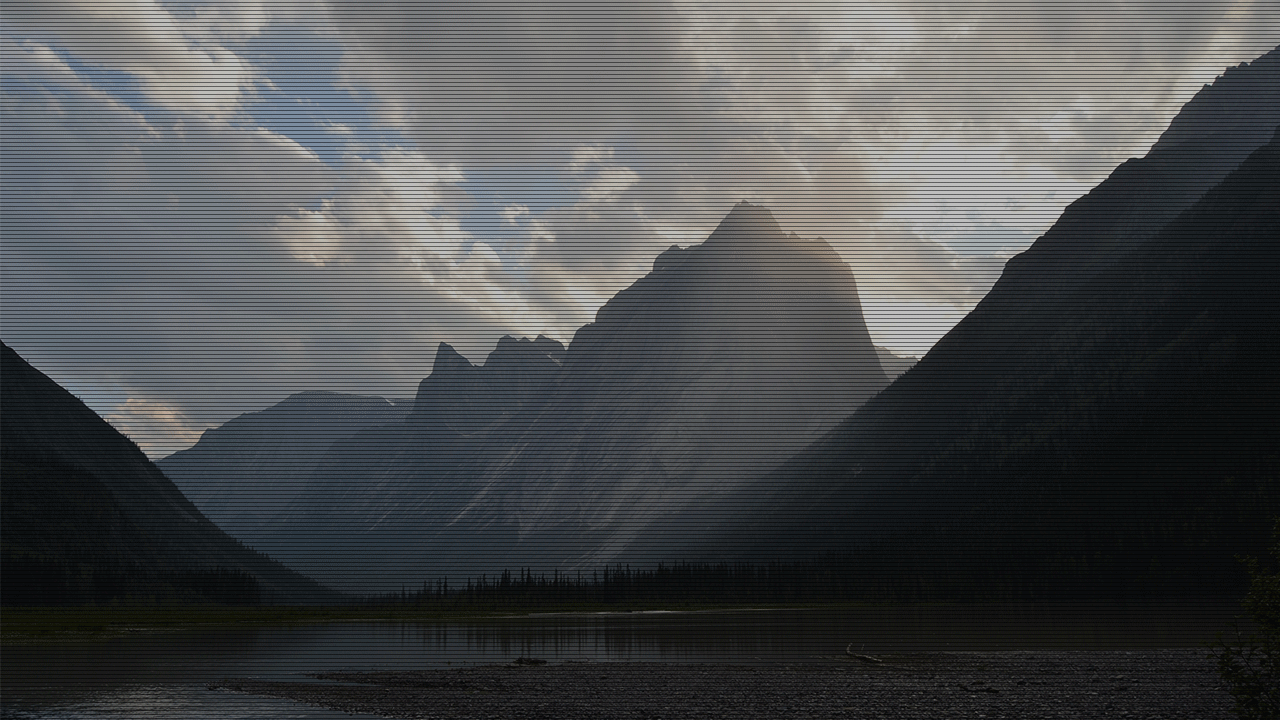
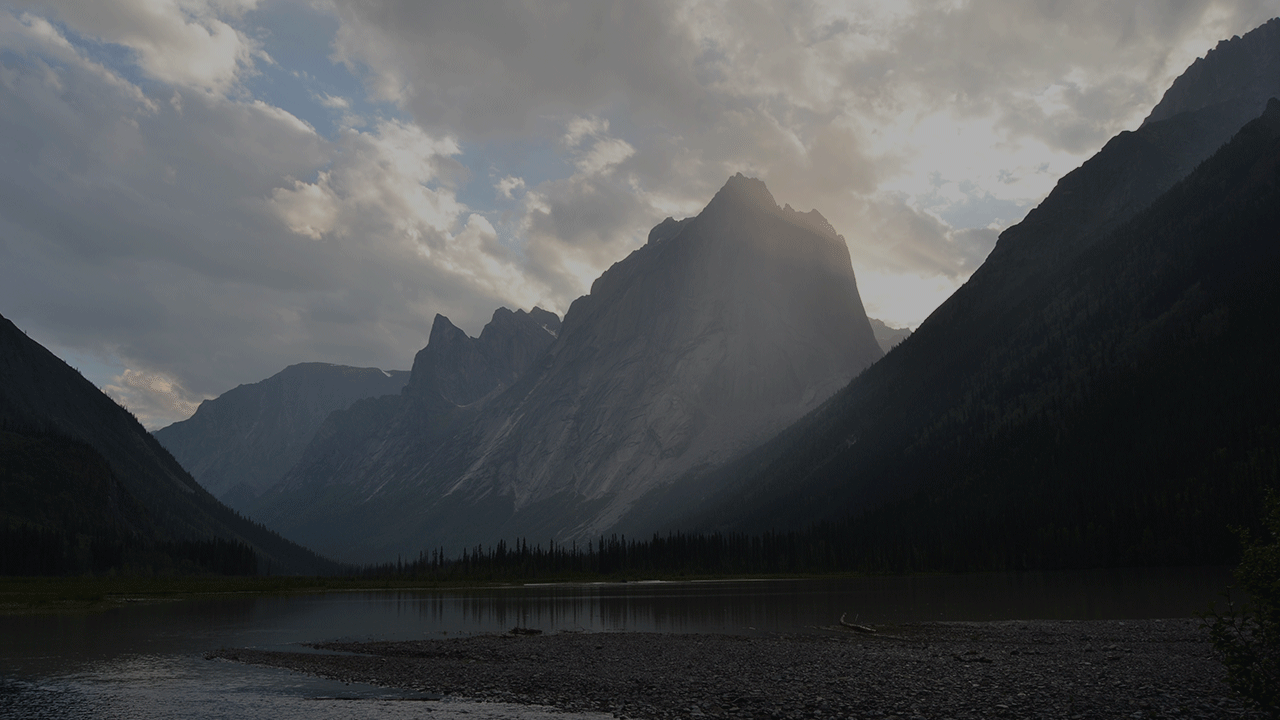
Added content

Changed region(s): [[0.0, 0.0, 1.0, 1.0], [0.9375, 0.8861, 0.9688, 0.9472]]

diff --git a/index.html b/index.html
@@ -4,8 +4,37 @@
     <title>Rob Harding</title>
     <charset meta="utf-8">
     <link rel="stylesheet" type="text/css" href="css/style.css">
-  </head>
+    <link href="https://fonts.googleapis.com/css?family=Oswald|Permanent+Marker" rel="stylesheet">  </head>
   <body>
-    <h1>Hello, world!</h1>
+    <div id="header">
+      <h1>Rob Harding</h1>
+      <nav>
+        <ul>
+          <li><a href="#">Home</a></li>
+          <li><a href="#">Blog</a></li>
+          <li><a href="#">About</a></li>
+          <li><a href="#">Contact</a></li>
+          <li><a href="#">Resume</a></li>
+        </ul>
+      </nav>
+    </div>
+    <section>
+      <h2>Hello, world!</h2>
+      <p>
+        Lorem ipsum dolor sit amet, mei nonumy mollis ex. An persius legendos mediocritatem has, eum at everti electram. Per sint lobortis at, prompta nostrud an vim, duo no facilisis referrentur definitiones. Vix vidit quaerendum ne. Amet eloquentiam mea et, eam cu tantas essent quaestio. Ea agam fuisset eum.
+        Quaeque utroque omittantur eum no. Viris graeci reprehendunt et usu, id consul oporteat ius. Tation soluta verterem mei no, cotidieque concludaturque in cum, quo ei option diceret sapientem. Ei dico labitur eos, ad dico propriae vix. Cu nec dicunt dissentias, eos vide principes et, no mei dolores vivendum assentior. Meis ipsum nominavi eu eam.
+        Ut zril ancillae voluptatibus usu. Vix malis salutatus mnesarchum te. Ei delenit inimicus sit, unum ipsum menandri eum ad. Velit adipisci corrumpit ea mel. Utinam ancillae conclusionemque vis in. His nonumy dicunt in, ei causae scribentur disputationi cum, no usu quis choro. Vis munere audiam id, saepe assueverit sea te.
+        Dico atomorum mediocrem pri et. Erant dicunt ei mea. Ad per debet graece persecuti, ad ponderum inciderint concludaturque vel. Mea viris oportere consectetuer at, eu eos aperiri indoctum evertitur. Eum ne quod percipit phaedrum. Solum quando definitiones nam ex, vim ex brute novum.
+        Vix te zril meliore postulant. Adhuc intellegat ne pri, unum primis aliquip ne sed, mea cu animal eripuit albucius. An nisl alia primis has, vim facilis accusam lucilius ex. Altera persecuti dissentiunt vim ea. Audiam constituam sit ea, no ius rebum nostro.
+        Lorem ipsum dolor sit amet, mei nonumy mollis ex. An persius legendos mediocritatem has, eum at everti electram. Per sint lobortis at, prompta nostrud an vim, duo no facilisis referrentur definitiones. Vix vidit quaerendum ne. Amet eloquentiam mea et, eam cu tantas essent quaestio. Ea agam fuisset eum.
+        Quaeque utroque omittantur eum no. Viris graeci reprehendunt et usu, id consul oporteat ius. Tation soluta verterem mei no, cotidieque concludaturque in cum, quo ei option diceret sapientem. Ei dico labitur eos, ad dico propriae vix. Cu nec dicunt dissentias, eos vide principes et, no mei dolores vivendum assentior. Meis ipsum nominavi eu eam.
+        Ut zril ancillae voluptatibus usu. Vix malis salutatus mnesarchum te. Ei delenit inimicus sit, unum ipsum menandri eum ad. Velit adipisci corrumpit ea mel. Utinam ancillae conclusionemque vis in. His nonumy dicunt in, ei causae scribentur disputationi cum, no usu quis choro. Vis munere audiam id, saepe assueverit sea te.
+        Dico atomorum mediocrem pri et. Erant dicunt ei mea. Ad per debet graece persecuti, ad ponderum inciderint concludaturque vel. Mea viris oportere consectetuer at, eu eos aperiri indoctum evertitur. Eum ne quod percipit phaedrum. Solum quando definitiones nam ex, vim ex brute novum.
+        Vix te zril meliore postulant. Adhuc intellegat ne pri, unum primis aliquip ne sed, mea cu animal eripuit albucius. An nisl alia primis has, vim facilis accusam lucilius ex. Altera persecuti dissentiunt vim ea. Audiam constituam sit ea, no ius rebum nostro.
+      </p>
+    </section>
+    <footer>
+      &copy; 2015 Rob Harding
+    </footer>
   </body>
 </html>

diff --git a/css/style.css b/css/style.css
@@ -1,0 +1,109 @@
+html, body {
+  padding: 0;
+  margin: 0;
+}
+
+body {
+  font-family: 'Oswald', sans-serif;
+  color: white;
+  margin-bottom:25px;
+}
+
+/* BACKGROUND IMAGE */
+html { 
+  background: url(../img/bg.png) no-repeat center center fixed; 
+  -webkit-background-size: cover;
+  -moz-background-size: cover;
+  -o-background-size: cover;
+  background-size: cover;
+}
+
+/* HEADER */
+#header {
+  display: block;
+  width: 500px;
+  margin: 30px 0 0 20px;
+  text-align: center;
+}
+
+h1 {
+  padding: 0;
+  margin: 0;
+  font-size: 4em;
+  font-family: 'Permanent Marker', cursive;
+  opacity: 0.95;
+  color: white;
+  text-shadow: 0 1px 0 #ccc,
+               0 2px 0 #c9c9c9,
+               0 3px 0 #bbb,
+               0 4px 0 #b9b9b9,
+               0 5px 0 #aaa,
+               0 6px 1px rgba(0,0,0,.1),
+               0 0 5px rgba(0,0,0,.1),
+               0 1px 3px rgba(0,0,0,.3),
+               0 3px 5px rgba(0,0,0,.2),
+               0 5px 10px rgba(0,0,0,.25),
+               0 10px 10px rgba(0,0,0,.2),
+               0 20px 20px rgba(0,0,0,.15);
+}
+
+/* NAV BAR */
+
+nav {
+  margin-top: -15px;
+  font-size: 1.6em;
+}
+
+ul {
+  list-style-type: none;
+  margin: 0;
+  padding: 0;
+}
+
+li {
+  display: inline;
+  padding: 5px;
+  opacity: 0.6;
+}
+
+li:hover {
+  opacity: 0.8;
+  text-shadow: 0 1px 0 rgba(255, 255, 255, 0.4);
+}
+
+a {
+  text-decoration: none;
+  color: white;
+}
+
+/* FOOTER */
+
+footer {
+    text-align: center;
+    height:25px;
+    bottom:0px;
+    left:0px;
+    right:0px;
+    margin-bottom:0px;
+}
+
+/* MAIN CONTENT */
+
+section {
+  display: block;
+  margin: auto;
+  background-color: #ecf0f1;
+  width: 80%;
+  color: #2c3e50;
+  padding: 10px;
+  margin-top: 30px;
+  border-radius: 5px;
+  -webkit-box-shadow: 2px 2px 5px 0px rgba(0,0,0,0.75);
+  -moz-box-shadow: 2px 2px 5px 0px rgba(0,0,0,0.75);
+  box-shadow: 2px 2px 5px 0px rgba(0,0,0,0.75);
+}
+
+section h2 {
+  margin: 0 0 20px 0;
+}
+
